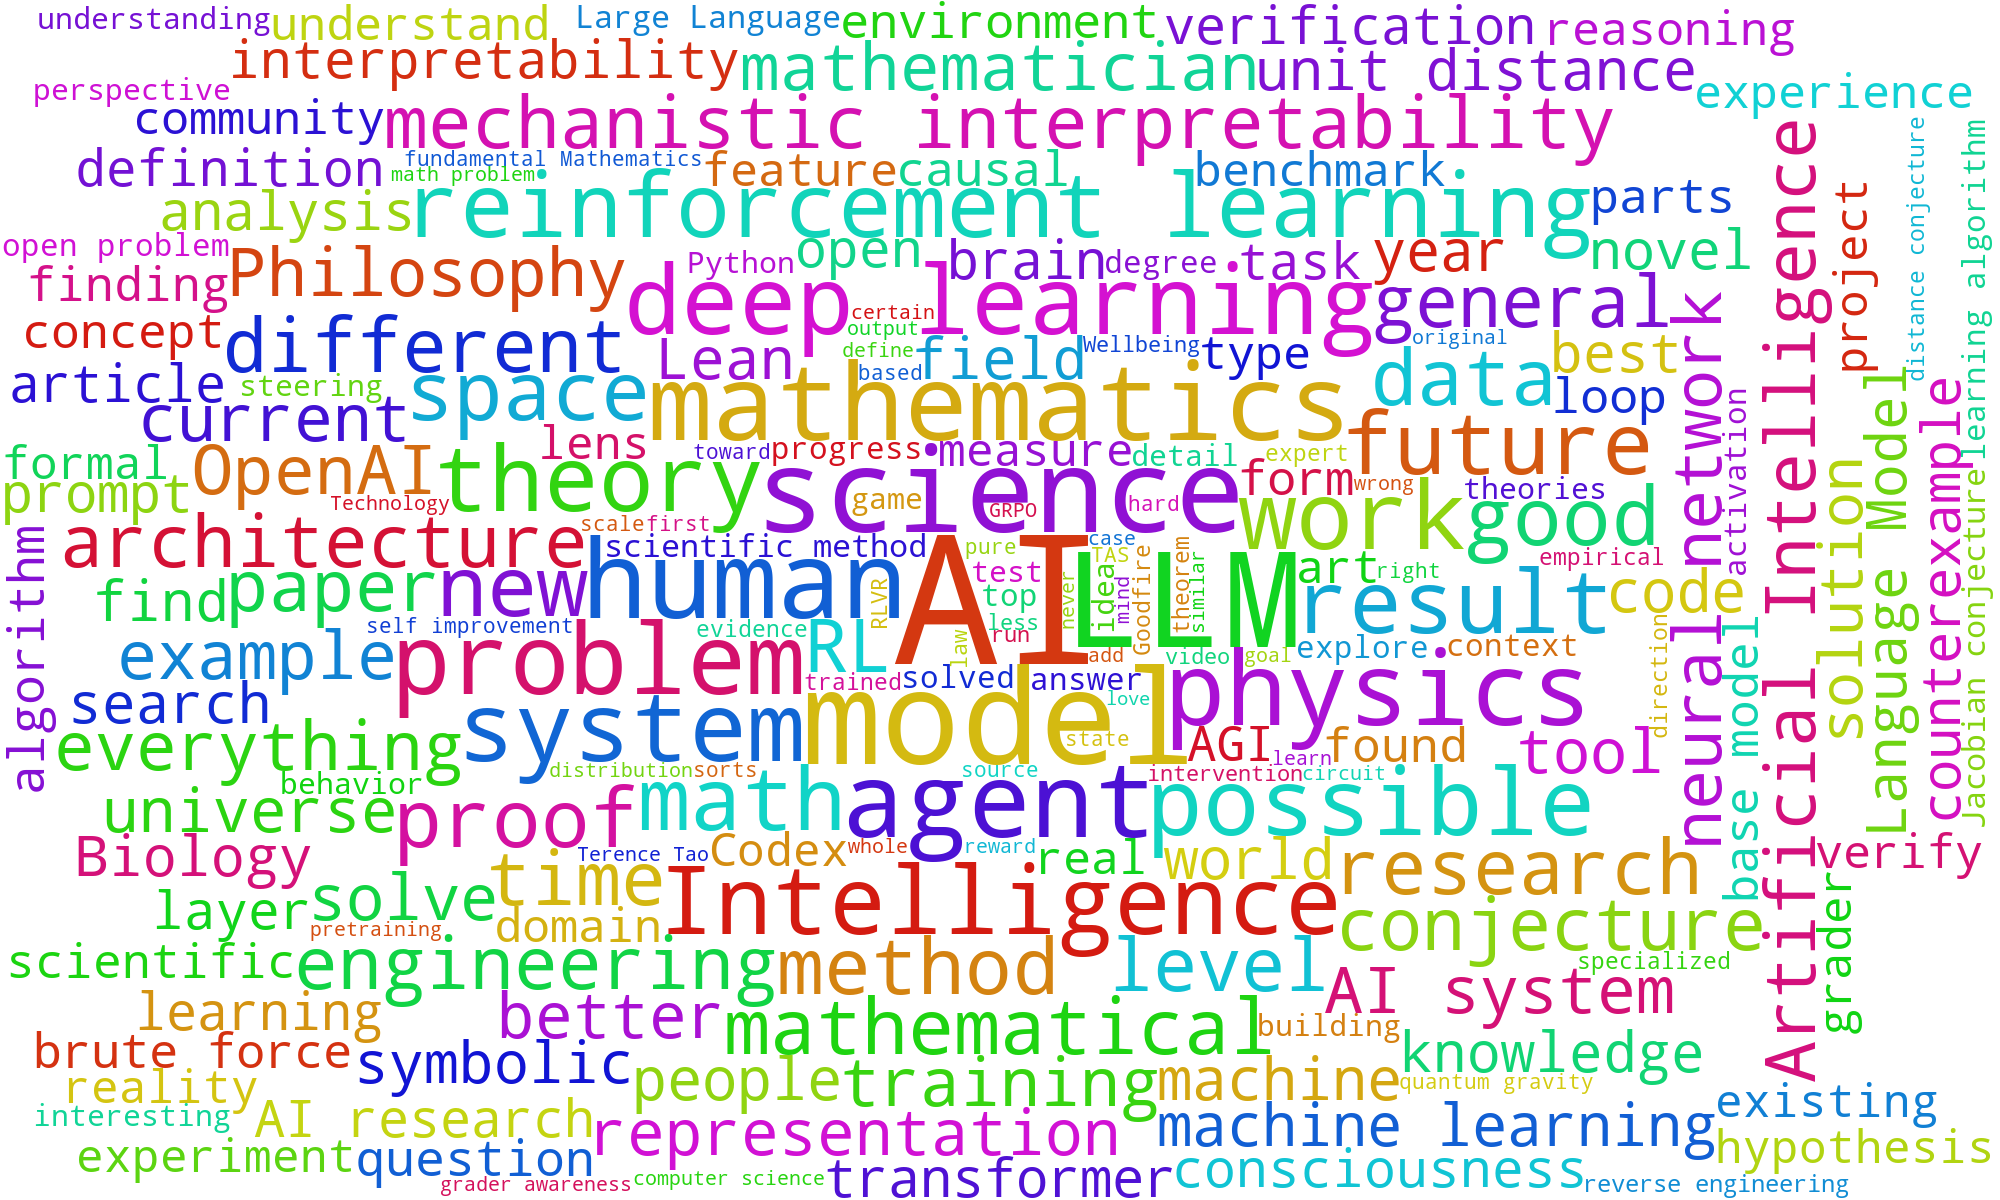
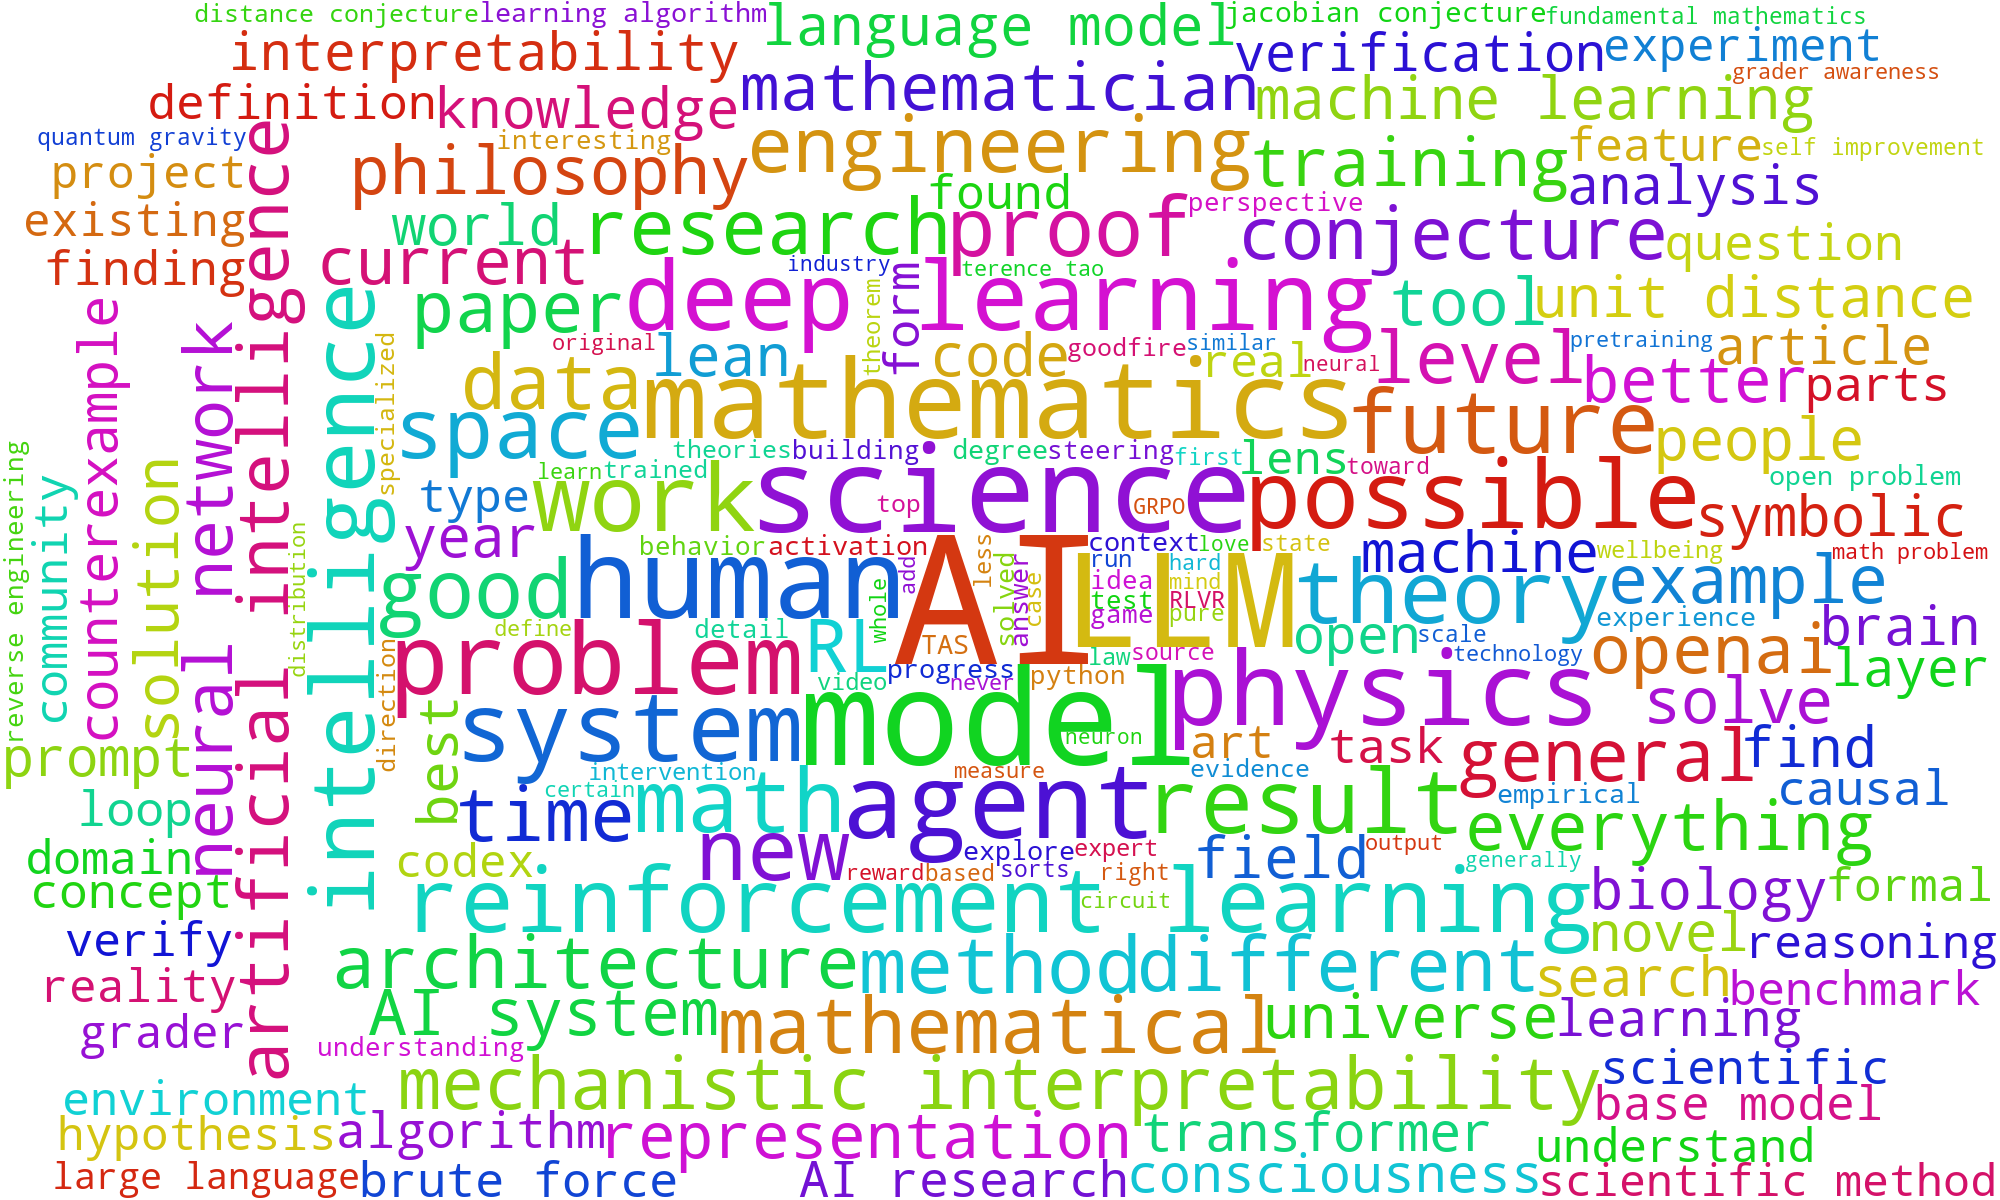
vault backup: 2026-10-28 05:51:30

diff --git a/src/vault_wordcloud/config.py b/src/vault_wordcloud/config.py
@@ -10,7 +10,6 @@ import os
 from dataclasses import dataclass, field
 from pathlib import Path
 
-import stopwordsiso
 from dotenv import load_dotenv
 
 # src/vault_wordcloud/config.py -> parents[2] is the Wordcloud/ project folder (pathlib: https://docs.python.org/3/library/pathlib.html#pathlib.PurePath.parents).
@@ -32,7 +31,7 @@ class Config:
     max_font_size: int  # pixel size of the most frequent word; the rest scale down from it
     relative_scaling: float  # 0..1, roughly the exponent in size ~ freq**rs; lower = big words relatively smaller
     random_state: int  # fixed seed -> identical layout and colours on every run
-    # Added on top of wordcloud.STOPWORDS: stopwords.txt + stopwords-iso lists. repr=False keeps ~450 words out of the
+    # Added on top of wordcloud.STOPWORDS: the words in stopwords.txt. repr=False keeps the list out of the
     # logged config (dataclass field options: https://docs.python.org/3/library/dataclasses.html#dataclasses.field).
     extra_stopwords: set[str] = field(repr=False)
 
@@ -64,8 +63,5 @@ def load_config() -> Config:
         max_font_size=int(os.getenv("MAX_FONT_SIZE", "180")),
         relative_scaling=float(os.getenv("RELATIVE_SCALING", "0.5")),
         random_state=int(os.getenv("RANDOM_STATE", "42")),
-        # Some Articles are partly Czech, so Czech function words (je, ale, co...) are filtered via stopwords-iso
-        # (https://github.com/stopwords-iso/stopwords-cs, Python wrapper https://github.com/bact/stopwords-iso).
-        extra_stopwords=_wordlist(PROJECT_DIR / os.getenv("STOPWORDS_FILE", "stopwords.txt"))
-        | stopwordsiso.stopwords(_csv("STOPWORD_LANGS", "cs")),
+        extra_stopwords=_wordlist(PROJECT_DIR / os.getenv("STOPWORDS_FILE", "stopwords.txt")),
     )

diff --git a/src/vault_wordcloud/render.py b/src/vault_wordcloud/render.py
@@ -29,6 +29,13 @@ def rainbow_color(*args, random_state, **kwargs) -> str:
     return f"hsl({random_state.randint(0, 359)}, 85%, 45%)"
 
 
+def display_case(word: str) -> str:
+    """Lowercase every token of a word or bigram except all-caps acronyms: "Artificial Intelligence" -> "artificial
+    intelligence", "AI system" -> "AI system". Counting is already case-insensitive (the library merges case variants
+    and shows the most common one); this only makes the shown form uniform."""
+    return " ".join(token if token.isupper() else token.lower() for token in word.split(" "))
+
+
 def render_wordcloud(text: str, config: Config) -> dict[str, int]:
     """Draw `text` into config.output as a PNG and return the word -> count dict the cloud was sized by."""
     cloud = WordCloud(
@@ -46,7 +53,9 @@ def render_wordcloud(text: str, config: Config) -> dict[str, int]:
         color_func=rainbow_color,
         collocations=True,  # default: also counts strong bigrams like "mechanistic interpretability" as one entry
     )
-    counts = cloud.process_text(text)  # tokenizes, drops stopwords/numbers/short words, merges plurals and finds bigrams
+    # process_text tokenizes, drops stopwords/numbers/short words, merges case variants and plurals, and finds bigrams.
+    # Its keys are unique ignoring case, so re-casing them with display_case can't merge two entries.
+    counts = {display_case(word): n for word, n in cloud.process_text(text).items()}
     # generate_from_frequencies builds its occupancy map from the module-global name IntegralOccupancyMap, so swap in
     # the centre-out version for this call only; patch.object restores the original afterwards
     # (https://docs.python.org/3/library/unittest.mock.html#patch-object).

diff --git a/tests/test_pipeline.py b/tests/test_pipeline.py
@@ -13,8 +13,10 @@ def test_run_writes_png_and_counts_clean_words(tmp_path):
     vault = tmp_path / "vault"
     (vault / "Articles").mkdir(parents=True)
     # One top-level note and one article, both with markup that must not leak into the counts.
-    (vault / "Home.md").write_text("---\naliases: [x]\n---\nInterpretability rocks. [[Home|exocortex]]", encoding="utf-8")
-    (vault / "Articles" / "A.md").write_text("Interpretability again, see https://arxiv.org/abs/1", encoding="utf-8")
+    (vault / "Home.md").write_text("---\naliases: [x]\n---\nInterpretability rocks. [[Home|exocortex]] AI", encoding="utf-8")
+    (vault / "Articles" / "A.md").write_text(
+        "interpretability again, see https://arxiv.org/abs/1\nTřeba jak vlastně vidím AGI.", encoding="utf-8"
+    )
 
     config = Config(
         vault_dir=vault,
@@ -33,6 +35,7 @@ def test_run_writes_png_and_counts_clean_words(tmp_path):
     counts = run(config)
 
     assert config.output.exists() and config.output.stat().st_size > 0
-    assert counts["Interpretability"] == 2  # counted once per note, case kept as written
-    for junk in ("aliases", "https", "arxiv", "see", "Home"):
-        assert junk not in counts
+    assert counts["interpretability"] == 2  # "Interpretability" + "interpretability": one word, shown lowercase
+    assert counts["AI"] == 1  # all-caps acronyms keep their case
+    for junk in ("aliases", "https", "arxiv", "see", "Home", "home", "AGI", "vidím", "Třeba", "třeba"):
+        assert junk not in counts  # markup, stopwords, link targets and the whole Czech line are gone

diff --git a/tests/test_config.py b/tests/test_config.py
@@ -1,7 +1,7 @@
-"""Tests for load_config: defaults point at the real vault notes and the stopword sources are merged.
+"""Tests for load_config: defaults point at the real vault notes and stopwords.txt is parsed.
 
-Global context: these read the real Wordcloud/stopwords.txt and the stopwords-iso Czech list, so they
-catch a broken path or a dropped language before a run produces a cloud full of "je"/"ale" or "Wikipedia".
+Global context: these read the real Wordcloud/stopwords.txt, so they catch a broken path or comment
+handling before a run produces a cloud full of filler like "Wikipedia" or "etc".
 """
 
 from vault_wordcloud.config import load_config
@@ -13,8 +13,7 @@ def test_default_sources_exist_in_vault():
     assert all((config.vault_dir / folder).is_dir() for folder in config.source_dirs)
 
 
-def test_stopwords_merge_file_and_czech_list():
+def test_stopwords_file_is_loaded_without_comments():
     words = load_config().extra_stopwords
-    assert {"wikipedia", "etc"} <= words  # from stopwords.txt
-    assert {"je", "ale"} <= words  # from stopwordsiso.stopwords("cs")
+    assert {"wikipedia", "etc"} <= words
     assert "#" not in "".join(words)  # comments are stripped

diff --git a/src/vault_wordcloud/clean.py b/src/vault_wordcloud/clean.py
@@ -13,6 +13,9 @@ import re
 
 # (pattern, replacement) pairs applied in order; order matters because image syntax `![..](..)` also matches the plain-link pattern.
 _RULES = [
+    # Czech lines (a few Articles are partly Czech): ě š č ř ž ů ň ť ď never occur in English, so a line containing
+    # one is Czech; re.M makes ^/$ match per line, and the whole line is blanked (https://docs.python.org/3/library/re.html#re.M).
+    (re.compile(r"^.*[ěščřžůňťďĚŠČŘŽŮŇŤĎ].*$", re.M), ""),
     (re.compile(r"\A---\n.*?\n---\n", re.S), ""),  # YAML frontmatter: only at file start (\A), lazy .*? stops at the first closing ---
     (re.compile(r"```.*?```", re.S), " "),  # fenced code blocks: re.S lets . span newlines inside the fence
     (re.compile(r"!\[\[[^\]]*\]\]"), " "),  # Obsidian embeds ![[file|size]]: drop file names, hashes and sizes

diff --git a/tests/test_clean.py b/tests/test_clean.py
@@ -59,6 +59,12 @@ def test_removes_code_fences_and_html():
     assert out.split() == ["before", "after"]
 
 
+def test_drops_czech_lines_keeps_english_ones():
+    # Lines with Czech-only letters (ě š č ř ž ů ň ť ď) are removed whole; English lines around them survive.
+    out = clean_markdown("Work in progress article.\nŘeší se to pořád všechny ty roky.\nBut researchers disagree.")
+    assert out.split() == ["Work", "in", "progress", "article.", "But", "researchers", "disagree."]
+
+
 def test_normalizes_typographic_apostrophes():
     # wordcloud's STOPWORDS spell contractions with a straight ' (e.g. "i'm"), but the vault uses ’ (smart-typography plugin).
     assert clean_markdown("I’m sure it’s fine") == "I'm sure it's fine"

diff --git a/src/vault_wordcloud/logs.py b/src/vault_wordcloud/logs.py
@@ -13,7 +13,7 @@ from pathlib import Path
 
 def setup_logging(log_dir: Path) -> Path:
     """Send INFO+ records to stdout and a fresh timestamped file; return that file's path."""
-    # Windows consoles default to cp1252, which can't print Czech note names/words; switch stdout to UTF-8
+    # Windows consoles default to cp1252, which can't print characters outside Latin-1; switch stdout to UTF-8
     # (https://docs.python.org/3/library/io.html#io.TextIOWrapper.reconfigure). pytest's capture stream lacks reconfigure.
     if hasattr(sys.stdout, "reconfigure"):
         sys.stdout.reconfigure(encoding="utf-8", errors="replace")
